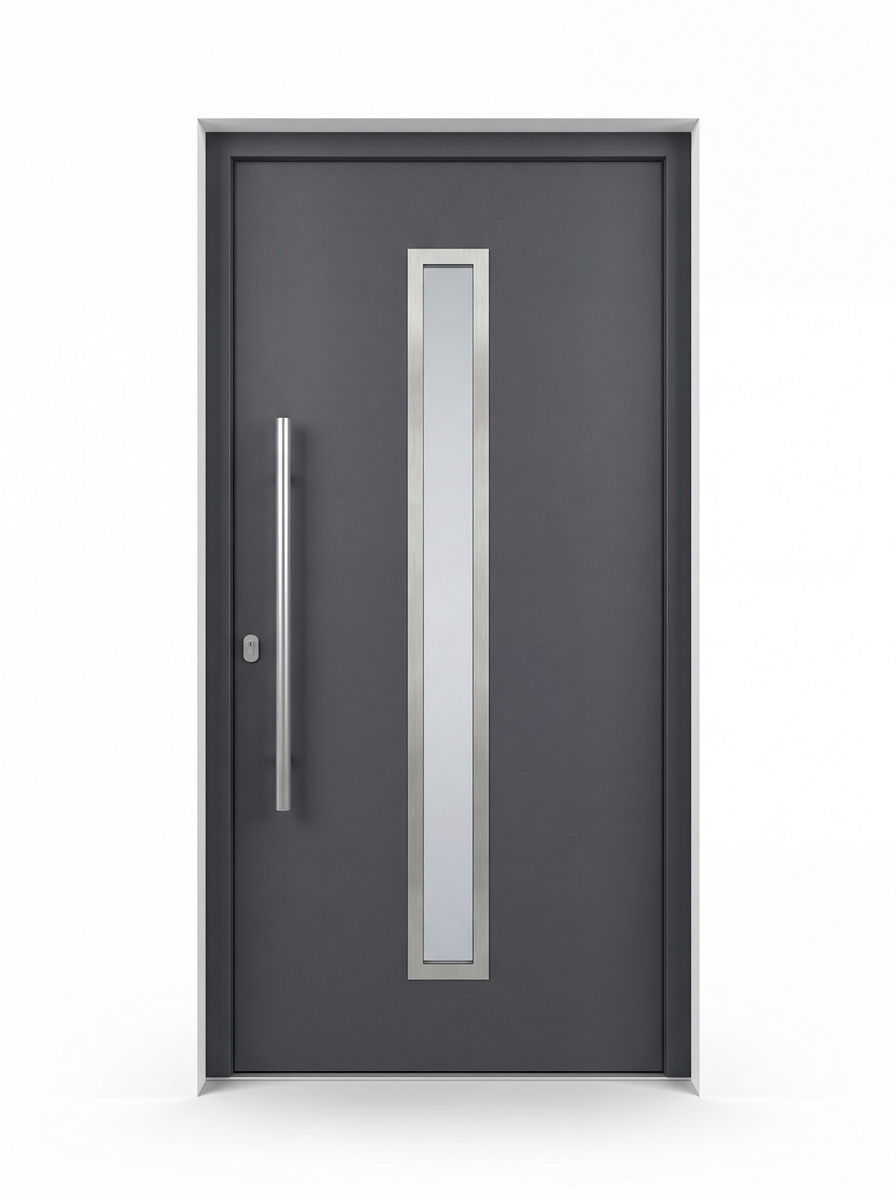
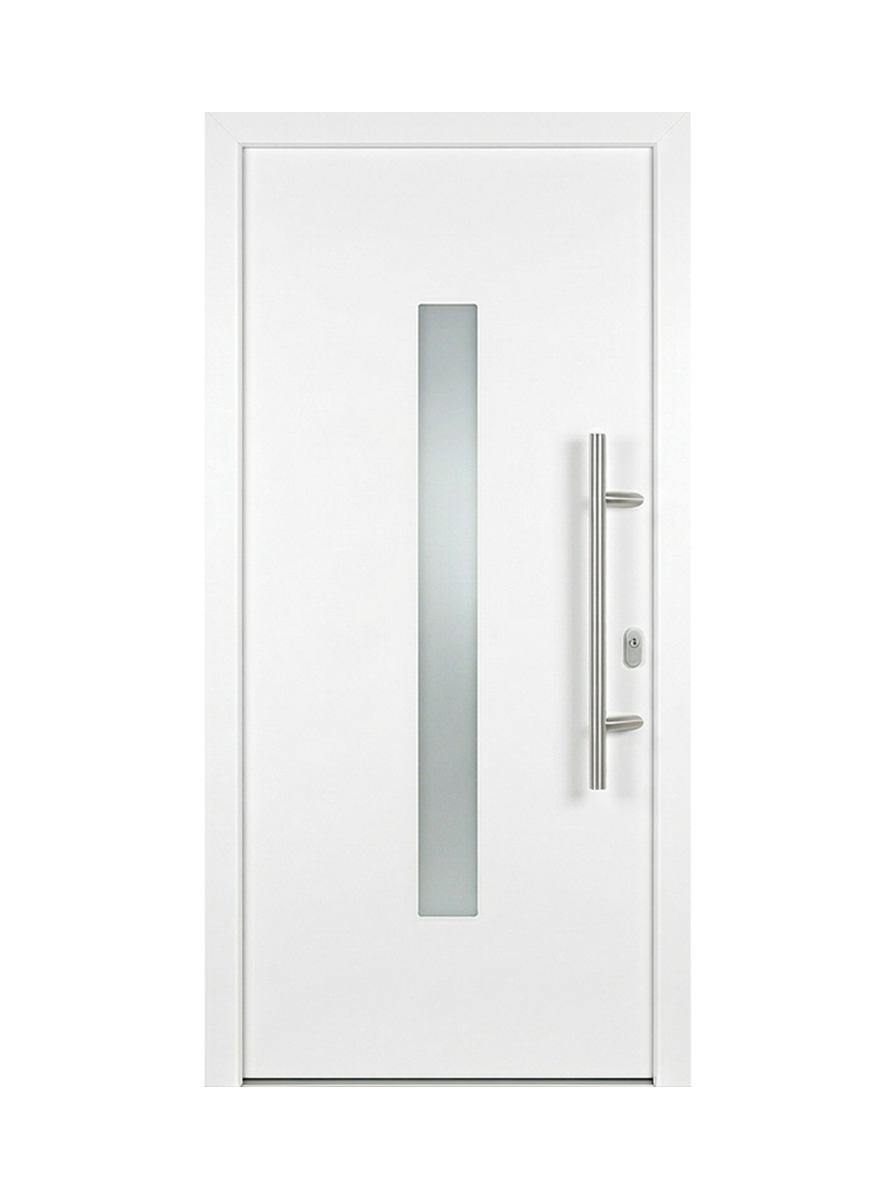
Konfigurator-Produktkarten: Haustuer und Schiebetuer auf Weiss umgestellt, passend zu Fenster und Balkontuer (Kundenwunsch 12.06.2026); Cache-Bump v=20260612h

diff --git a/konfigurator-new.html b/konfigurator-new.html
@@ -3754,7 +3754,7 @@ html body #sidebar-wrap #kfg-sum-block { display: none !important; }
     <div class="hcard" onclick="heroSelectProd('haustuere')">
       <div class="hcard-name hcard-name-top">Haustür</div>
       <div class="hcard-img-wrap">
-        <img class="hcard-img" src="img/karten/haustuer-weiss.png?v=20260608u" alt="Haustür" loading="eager">
+        <img class="hcard-img" src="img/karten/haustuer-weiss.png?v=20260612h" alt="Haustür" loading="eager">
       </div>
       <div class="hcard-info">
         <div class="hcard-cta">
@@ -3767,7 +3767,7 @@ html body #sidebar-wrap #kfg-sum-block { display: none !important; }
     <div class="hcard" onclick="heroSelectProd('hst')">
       <div class="hcard-name hcard-name-top">Schiebetür</div>
       <div class="hcard-img-wrap">
-        <img class="hcard-img" src="img/karten/hst-weiss.png?v=20260608u" alt="Schiebetür" loading="eager">
+        <img class="hcard-img" src="img/karten/hst-weiss.png?v=20260612h" alt="Schiebetür" loading="eager">
       </div>
       <div class="hcard-info">
         <div class="hcard-cta">

diff --git a/konfigurator.html b/konfigurator.html
@@ -3754,7 +3754,7 @@ html body #sidebar-wrap #kfg-sum-block { display: none !important; }
     <div class="hcard" onclick="heroSelectProd('haustuere')">
       <div class="hcard-name hcard-name-top">Haustür</div>
       <div class="hcard-img-wrap">
-        <img class="hcard-img" src="img/karten/haustuer-weiss.png?v=20260608u" alt="Haustür" loading="eager">
+        <img class="hcard-img" src="img/karten/haustuer-weiss.png?v=20260612h" alt="Haustür" loading="eager">
       </div>
       <div class="hcard-info">
         <div class="hcard-cta">
@@ -3767,7 +3767,7 @@ html body #sidebar-wrap #kfg-sum-block { display: none !important; }
     <div class="hcard" onclick="heroSelectProd('hst')">
       <div class="hcard-name hcard-name-top">Schiebetür</div>
       <div class="hcard-img-wrap">
-        <img class="hcard-img" src="img/karten/hst-weiss.png?v=20260608u" alt="Schiebetür" loading="eager">
+        <img class="hcard-img" src="img/karten/hst-weiss.png?v=20260612h" alt="Schiebetür" loading="eager">
       </div>
       <div class="hcard-info">
         <div class="hcard-cta">